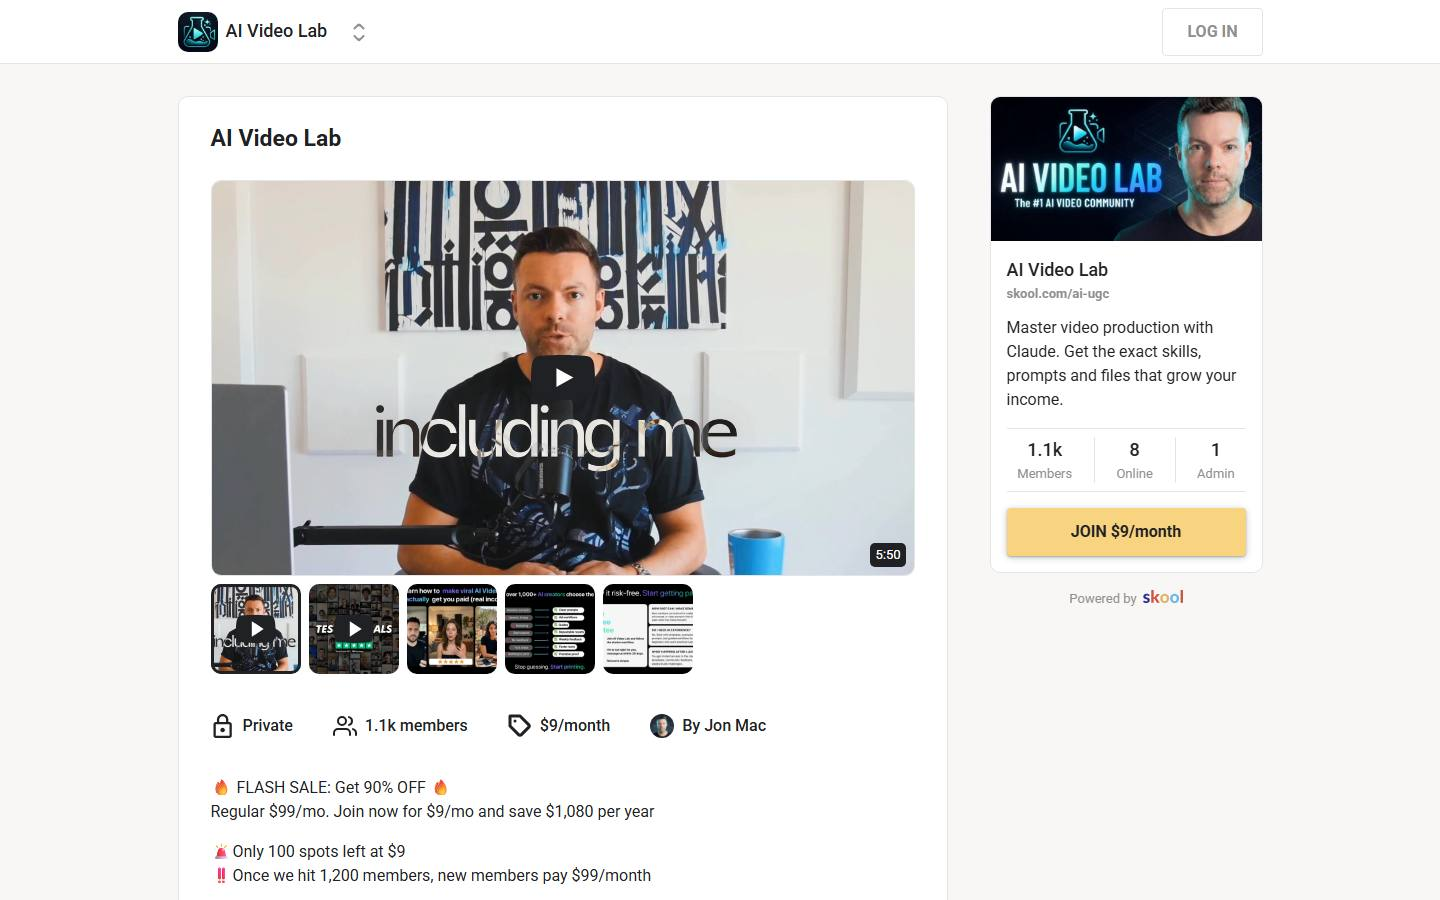
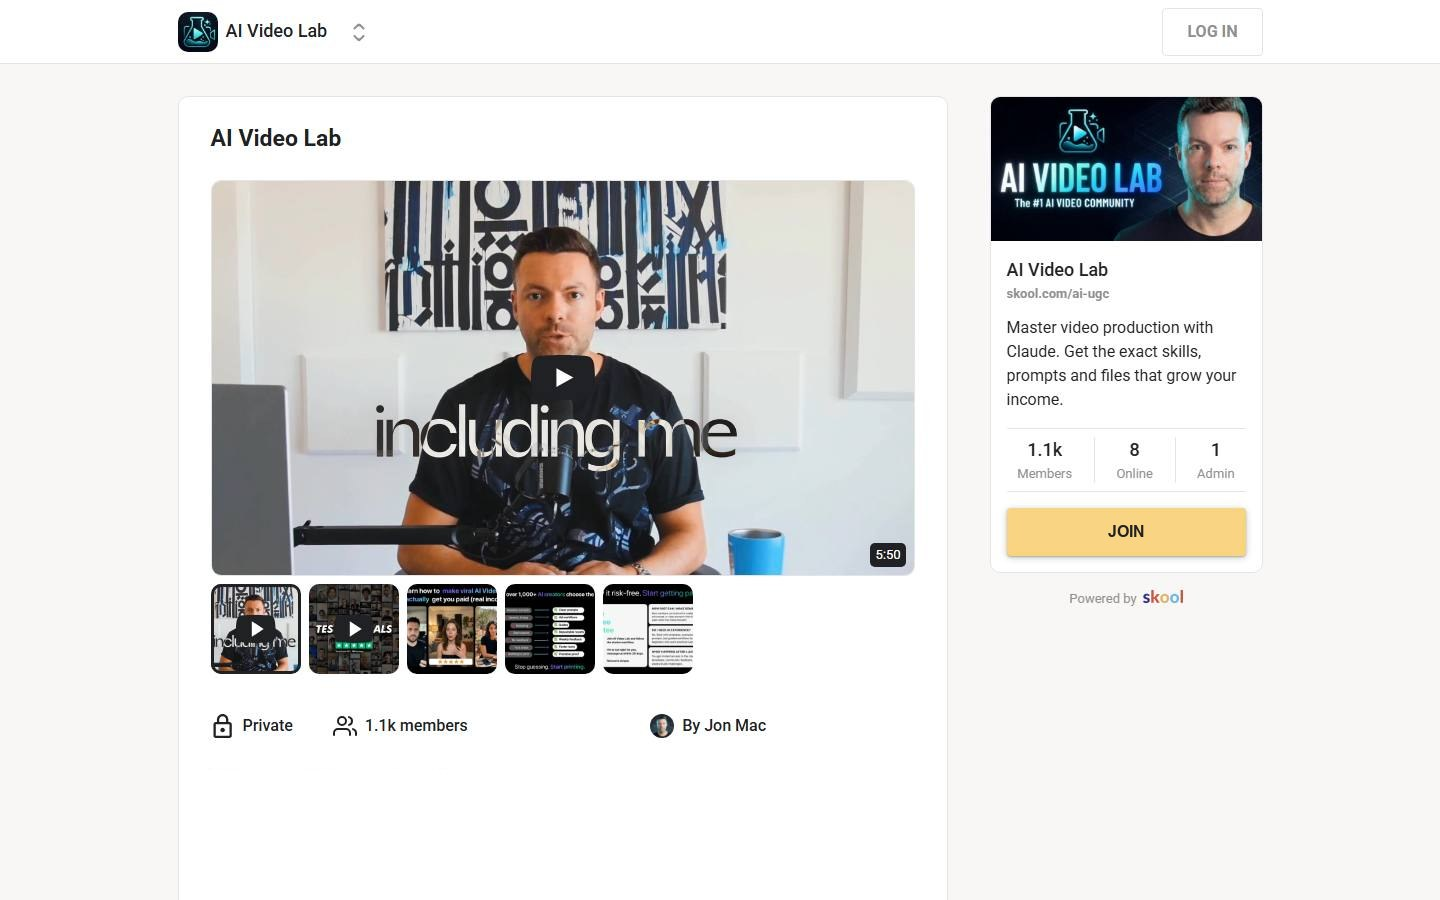
Lander: the Skool page is back under the email opt-in (blurred, as approved) with every price taken out of both screenshots; test blocks the old priced screenshots

diff --git a/cloud-apps/command-center/src/skool.js b/cloud-apps/command-center/src/skool.js
@@ -107,7 +107,8 @@ function capturePage(slug, error, status, { typed = '', suggestion = '' } = {}) 
   const html = `<!doctype html><html lang="en"><head><meta charset="utf-8"><meta name="viewport" content="width=device-width,initial-scale=1">
 <meta name="robots" content="noindex,nofollow"><meta name="referrer" content="no-referrer"><title>AI Video Lab on Skool</title><style>
 html,body{height:100%;margin:0}body{font-family:system-ui,-apple-system,"Segoe UI",Roboto,sans-serif;color:#1f1f1f;background:#f5f5f5;overflow:hidden}
-.bg{position:fixed;inset:0;background:#f5f5f5}
+.bg{position:fixed;inset:-12px;background:#f5f5f5 url(/s/about-desktop.jpg) center top/cover no-repeat;filter:blur(5px)}
+@media (max-width:640px){.bg{background-image:url(/s/about-mobile.jpg)}}
 .dim{position:fixed;inset:0;background:rgba(0,0,0,.45)}
 .wrap{position:fixed;inset:0;display:flex;overflow:auto;padding:1rem;box-sizing:border-box}
 .box{margin:auto;box-sizing:border-box;width:min(26rem,100%);background:#fff;border-radius:12px;padding:1.75rem 1.5rem 1.25rem;box-shadow:0 12px 48px rgba(0,0,0,.35)}
